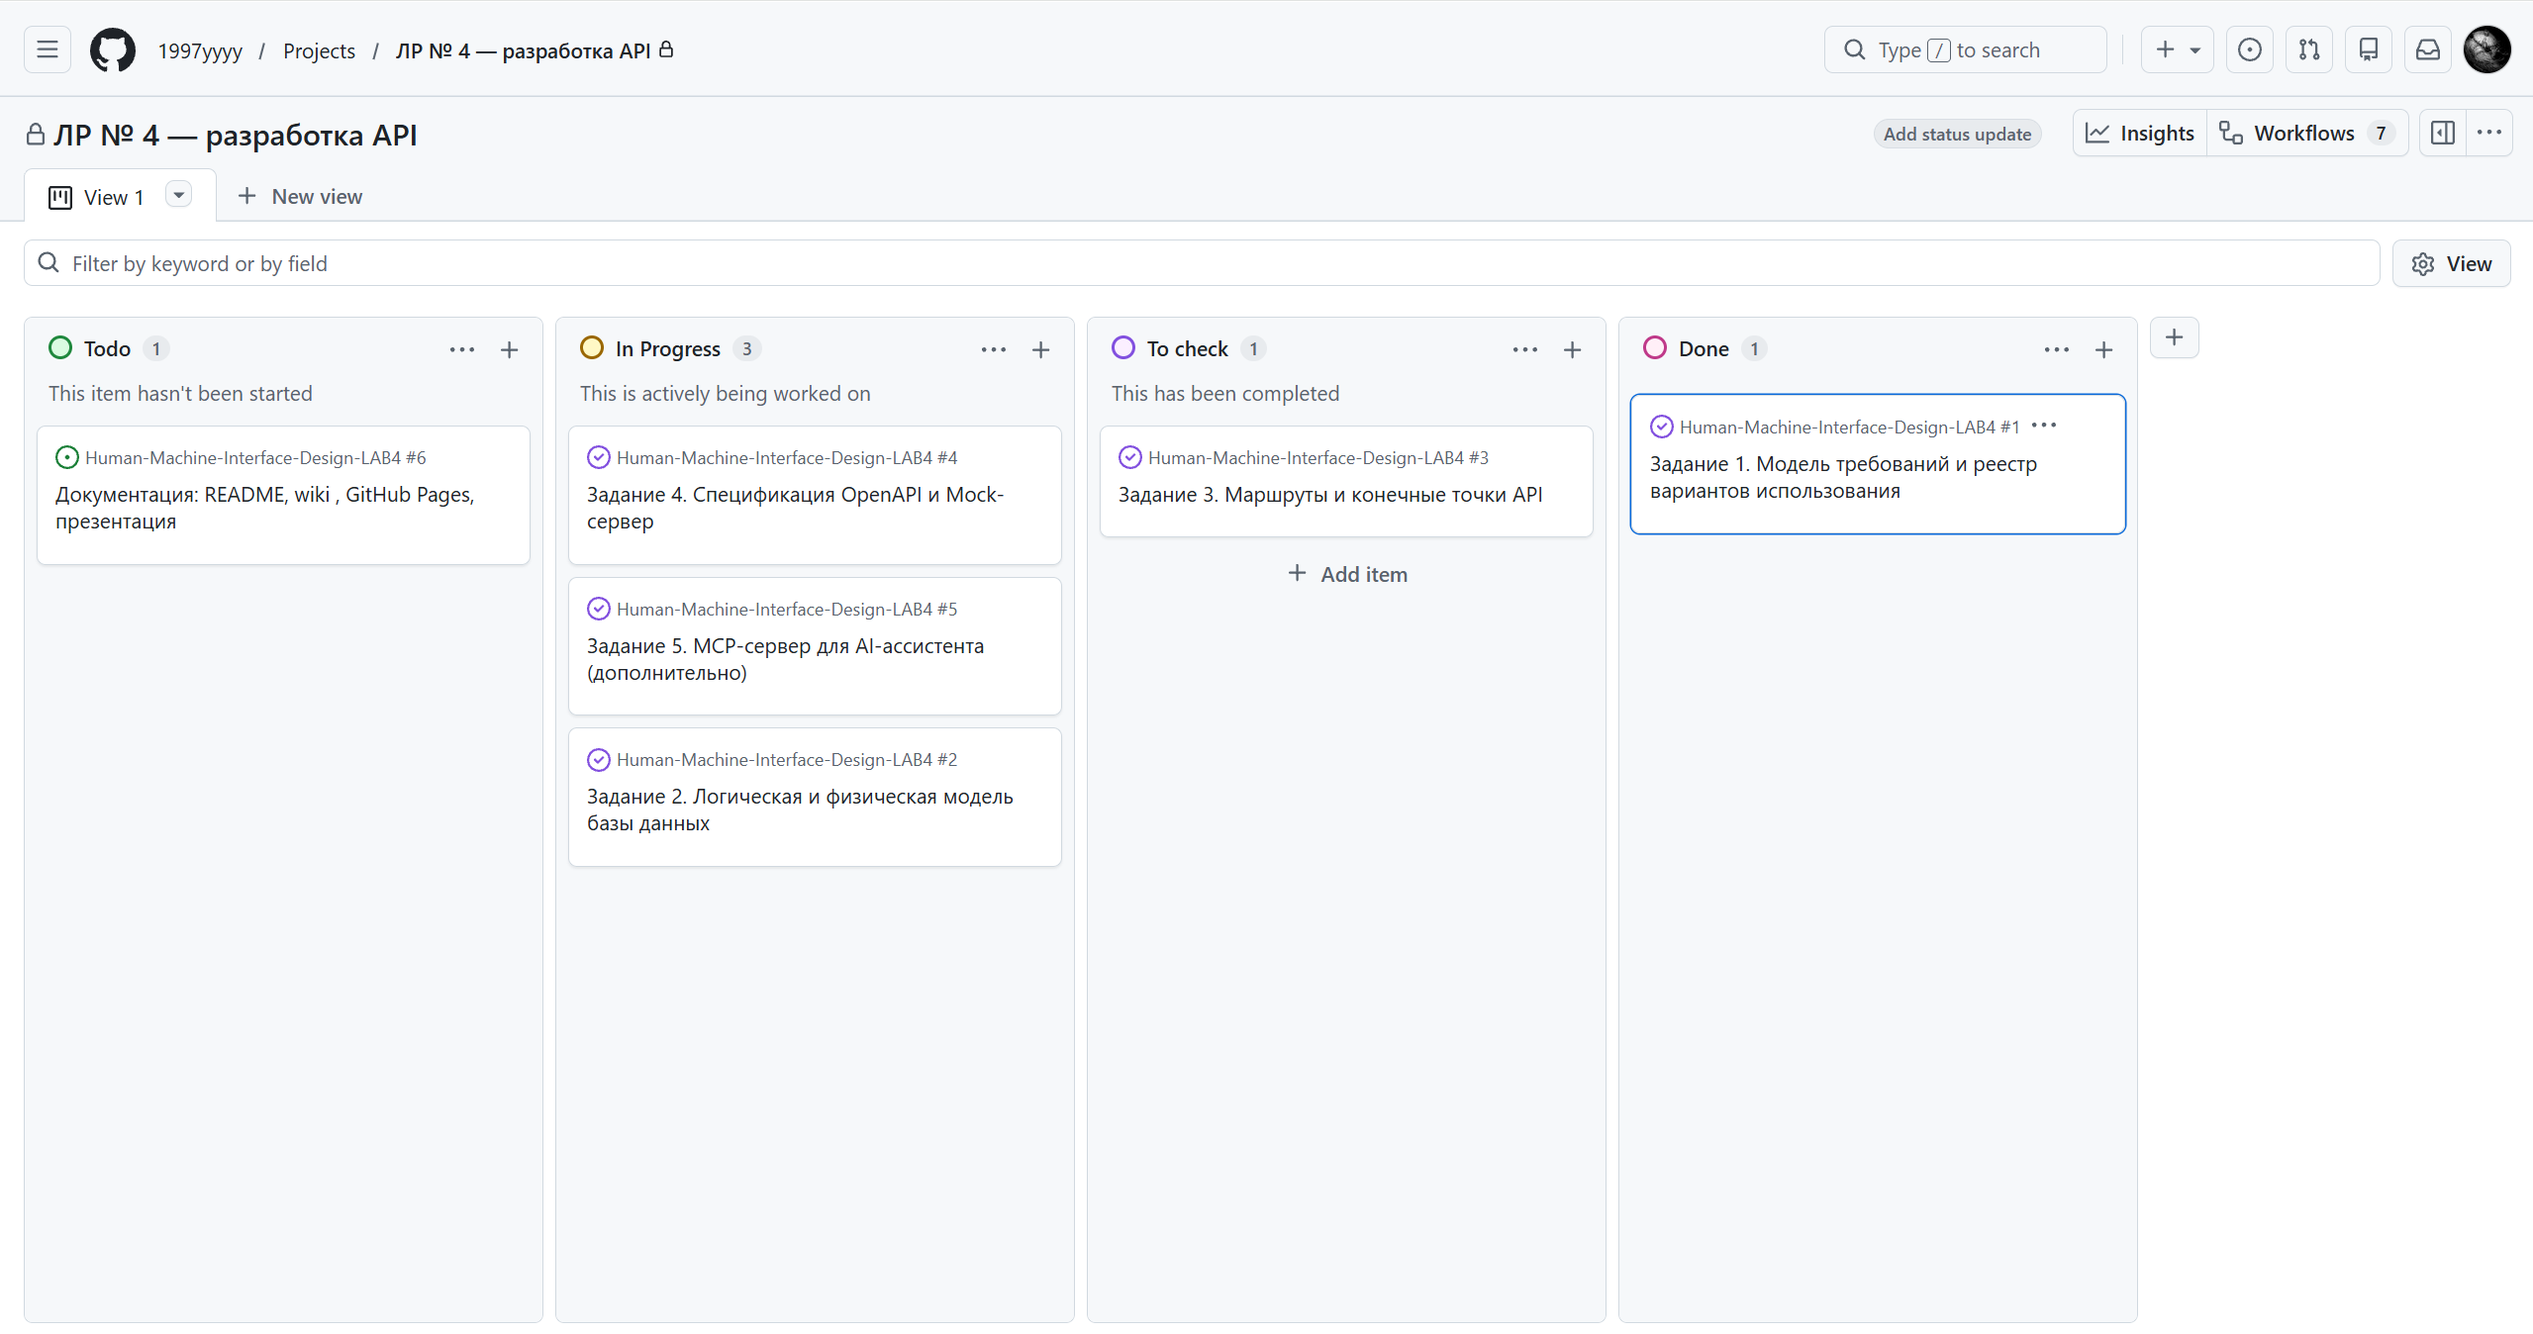
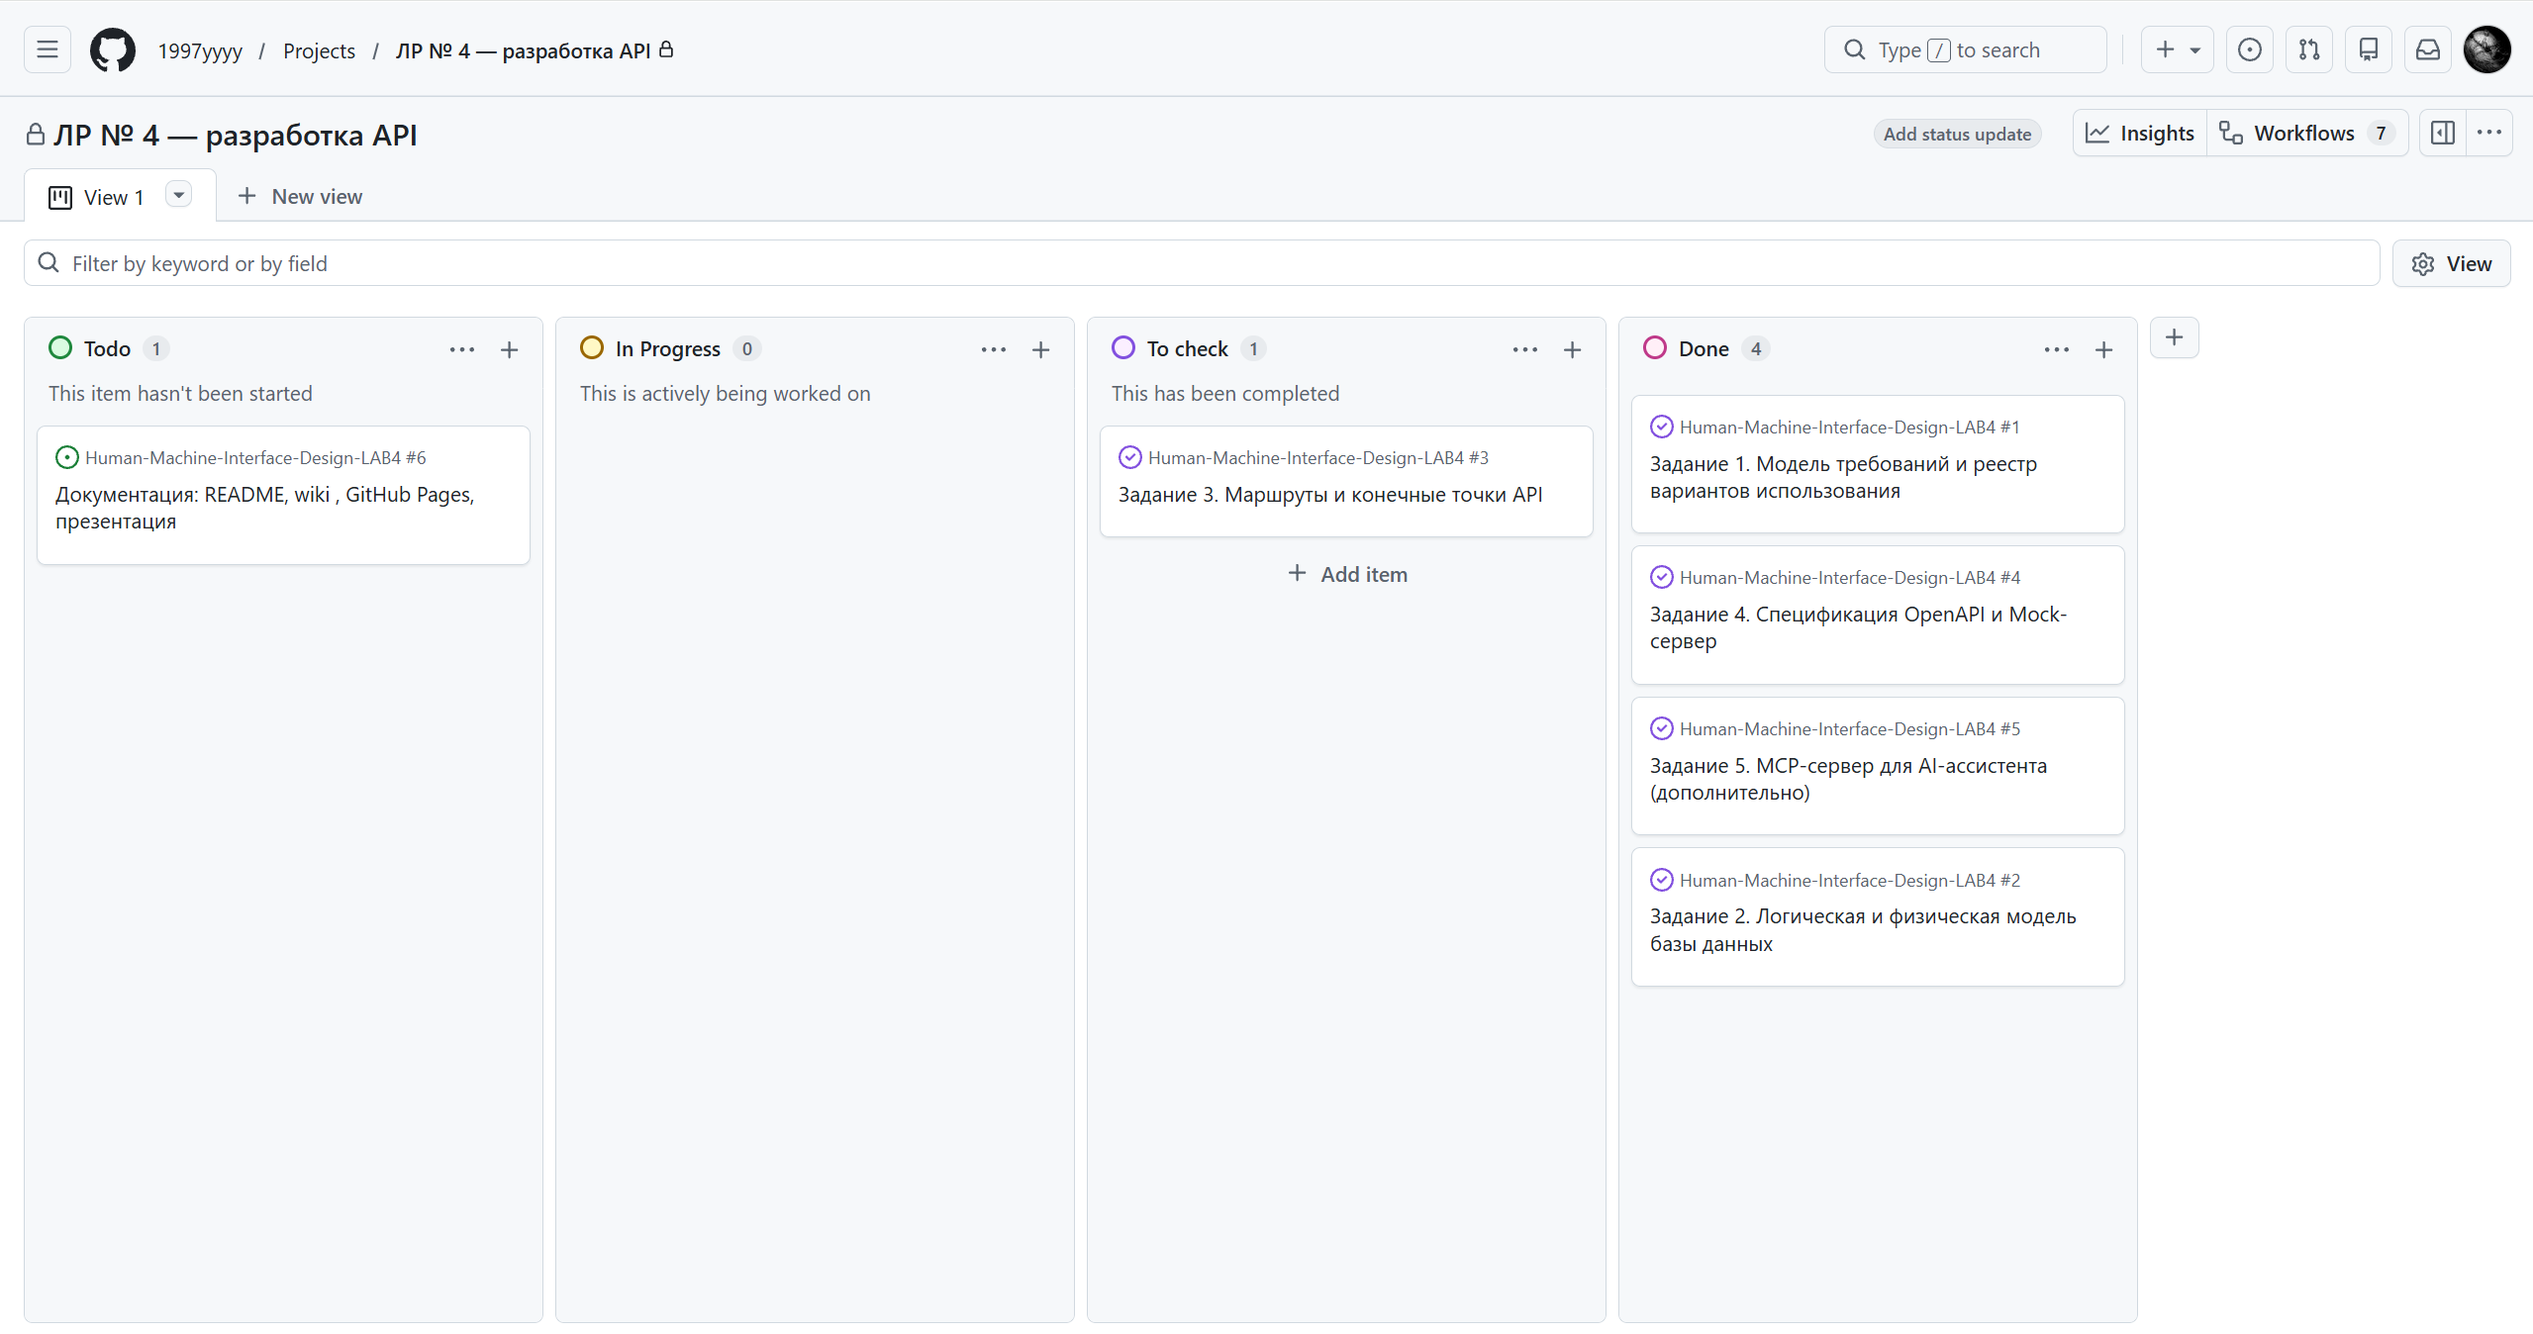
Восьмая страница вики: MCP-сервер, снимки Inspector и доски проекта

diff --git a/index.html b/index.html
@@ -83,6 +83,8 @@
     <h3>Презентация проекта</h3><p>12 слайдов: распределение работ, требования, модель данных, API, работа с репозиторием</p></a>
   <a class="card" href="docs/06-api.html">
     <h3>API проекта</h3><p>Маршруты, соответствие вариантов использования и методов, коды ошибок</p></a>
+  <a class="card" href="docs/08-mcp.html">
+    <h3>MCP-сервер</h3><p>Инструменты, ресурсы и шаблон промпта, правила валидации, проверка в MCP Inspector</p></a>
 
   <h2>Артефакты</h2>
   <a class="card" href="api/index.html">
@@ -97,6 +99,10 @@
     <h3>assets/presentation.pdf</h3><p>Готовая презентация в PDF, формат 16:9, 12 страниц</p></a>
   <a class="card" href="mcp/README.md">
     <h3>mcp/README.md</h3><p>Инструкция по развёртыванию MCP-сервера и примеры запросов</p></a>
+  <a class="card" href="assets/projects-board.png">
+    <h3>Доска проекта</h3><p>GitHub Projects: четыре колонки, шесть задач по заданиям 1–5 и документации</p></a>
+  <a class="card" href="assets/mcp/inspector-web.png">
+    <h3>Проверка в MCP Inspector</h3><p>Три инструмента и журнал протокола: подключение, вызов, ответ</p></a>
 
   <footer>
     Campus Events · ЛР № 4 по курсу «Проектирование человеко-машинных интерфейсов» ·

diff --git a/docs/08-mcp.md b/docs/08-mcp.md
@@ -1,0 +1,91 @@
+# Задание 5. MCP-сервер для AI-ассистента
+
+MCP (Model Context Protocol) — способ отдать ассистенту не весь API, а три
+вещи: **инструменты** (что он может сделать), **ресурсы** (что он может прочитать)
+и **шаблоны промптов** (как вести типовой диалог). Сервер проекта — MVP на
+MCP Python SDK 2.3.0: три инструмента, два ресурса и один шаблон, данные — в
+mock-базе SQLite (`mcp/campus.db`), собранной из той же физической модели, что и
+PostgreSQL-схема.
+
+## 1. Инструменты
+
+| Инструмент | Аргументы | Что делает | Возвращает | Ошибки |
+|---|---|---|---|---|
+| `create_registration` | `session_id` (string, обяз.), `user_id` (string, обяз.) | Записывает на сессию, проверяет свободные места и повторную запись | `registration_id`, `ticket_id`, `qr_payload`, `status`, `free_seats`, `participant` | `NOT_FOUND`, `NO_SEATS`, `ALREADY_REGISTERED`, `SESSION_IN_PAST` |
+| `cancel_registration` | `registration_id` (string, обяз.), `reason` (string, необяз.) | Отменяет запись, освобождает место, гасит билет | `ok`, `registration_id`, `status`, `free_seats` | `NOT_FOUND`, `TICKET_USED` |
+| `check_in_ticket` | `qr_payload` (string, обяз.) | Отмечает присутствие по строке из QR-кода, идемпотентно | `ok`, `ticket_id`, `participant`, `marked_at`, `already_marked` | `NOT_FOUND`, `TICKET_REVOKED` |
+
+Схемы типизированы: у каждого аргумента есть тип и описание, обязательные поля
+перечислены в `required`, поэтому ассистент не может вызвать инструмент «наугад».
+Три инструмента — это ровно те действия, которые в API делают
+`POST /sessions/{sid}/registrations`, `DELETE /registrations/{id}` и
+`POST /tickets/{id}/check-in`.
+
+## 2. Ресурсы
+
+| URI | Содержимое | Зачем ассистенту |
+|---|---|---|
+| `catalog://events` | Опубликованные мероприятия с сессиями: `capacity`, `taken`, `free_seats` | Ответить «есть ли места» и выбрать сессию, не вызывая инструментов |
+| `registrations://user/{user_id}` | Записи пользователя: статус, время, признак действующего билета | Ответить «на что я записан» и найти `registration_id` для отмены |
+
+`free_seats` считается на стороне сервера: ассистенту не нужно вычитать `taken`
+из `capacity`, а значит он не может ошибиться в арифметике. Ресурс
+`registrations://user/{id}` отдаёт только ФИО, статус и время — персональные
+данные сверх этого не раскрываются.
+
+## 3. Шаблон промпта
+
+`registration_help(event_title)` задаёт порядок «сначала данные, потом действие»:
+
+1. прочитать `catalog://events` и найти мероприятие с его сессиями;
+2. если свободных мест нет — не вызывать `create_registration`, а предложить лист ожидания;
+3. иначе вызвать `create_registration(session_id, user_id)` и показать билет с QR-кодом.
+
+Без такого шаблона модель склонна «сразу писать в базу». Шаблон переносит
+проверку состояния в начало диалога.
+
+## 4. Правила, которые держит сервер, а не модель
+
+- **Места считает база.** `session.taken` меняется только триггером; инструмент
+  не пишет `capacity` и не пересчитывает остаток сам.
+- **Отменить использованный билет нельзя** — `cancel_registration` вернёт
+  `TICKET_USED`, а не тихо испортит данные.
+- **Повторная запись** на ту же сессию даёт `ALREADY_REGISTERED`, а не второй билет.
+- **Отметка идемпотентна**: повторный `check_in_ticket` возвращает
+  `already_marked: true` и не перезаписывает время.
+- **Ошибки структурированы** (`code` + `message`), как в REST API: агент читает
+  код и выбирает следующий шаг, а не разбирает прозу.
+
+## 5. Проверка
+
+Сервер проверен официальным **MCP Inspector** (2.13.0): подключение по stdio,
+вкладка *Tools* показывает три инструмента, вызов возвращает структурированный
+результат, справа виден журнал протокола (`resources/templates/list`,
+`prompts/list`, `tools/call`).
+
+![MCP Inspector: три инструмента и журнал протокола](../assets/mcp/inspector-web.png)
+
+Тот же сценарий прогнан в CLI-режиме Inspector (без браузера) и записан
+пошагово: список инструментов и схем, успешная запись, двойная отметка билета,
+обращение к несуществующей сессии — [протокол проверки](https://github.com/1997yyyy/Human-Machine-Interface-Design-LAB4/blob/main/mcp/inspector-cli.md).
+
+Дополнительно `mcp/test_mcp.py` прогоняет 10 проверок без LLM-клиента:
+успешная запись, отсутствие мест, повторная запись, отмена, отмена
+использованного билета, отметка, повторная отметка, несуществующий билет,
+чтение каталога, чтение записей пользователя.
+
+## 6. Пример диалога
+
+> **Пользователь:** «Запиши меня на хакатон, я Морозова, группа 4-2.»
+>
+> **Ассистент:** читает `catalog://events`, находит «Хакатон FPMI-2026», сессию
+> `s-0002` (свободно 40 мест), вызывает
+> `create_registration(session_id="s-0002", user_id="u-0006")`.
+>
+> **Инструмент:** `{"ok": true, "ticket_id": "t-0f81df63", "status": "Записан", "free_seats": 39, "participant": "Морозова Дарья Павловна"}`
+>
+> **Ассистент:** «Записала вас на 21 ноября, Главный корпус, коворкинг. Билет
+> `t-0f81df63`, QR-код сохранён в приложении — он работает без сети.»
+
+Исходный код и инструкция запуска — [mcp/README.md](https://github.com/1997yyyy/Human-Machine-Interface-Design-LAB4/blob/main/mcp/README.md),
+сервер — `mcp/server.py`, mock-база собирается `mcp/make_mock_db.py`.

diff --git a/README.md b/README.md
@@ -148,6 +148,7 @@ LAB4/
 │  ├─ 05-database.md          схема БД и словарь полей
 │  ├─ 06-api.md               маршруты, конечные точки, коды ошибок, скриншоты Bruno
 │  ├─ 07-presentation.md      презентация проекта
+│  ├─ 08-mcp.md               MCP-сервер: инструменты, ресурсы, проверка в Inspector
 │  └─ issues.md               тексты задач для GitHub Projects
 └─ tools/
    ├─ gen_db.py               генератор DDL, словаря полей и ER из одной модели
